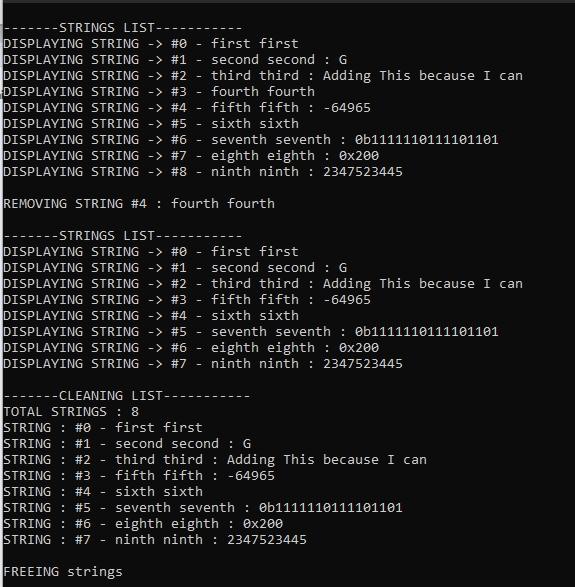
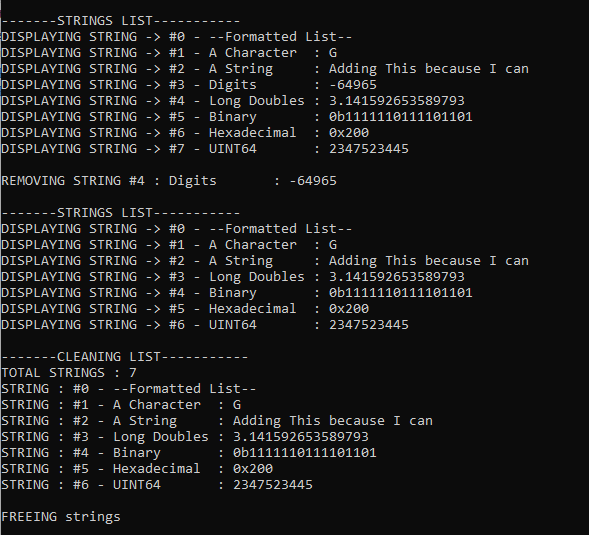
Added Long Floats (A.K.A. Long Doubles ???)

Changed region(s): [[0.0, 0.0, 1.0, 1.0], [0.3548, 0.4187, 0.9165, 0.628], [0.5026, 0.329, 0.5617, 0.3589]]

diff --git a/stringmanager.c b/stringmanager.c
@@ -17,6 +17,26 @@ unsigned int that_getTotalStrings()
 {
     return stringsIndex;
 }
+#include <stdio.h>
+#include <stdlib.h>
+#include <stdint.h>
+
+void printDoubles(double doubleNum, int numLength)
+{
+    int floatLength = (size_t)snprintf(NULL, 0, "%.15lf", doubleNum) + 1;
+    char *str = NULL;
+    str = malloc(floatLength);
+    snprintf(str, floatLength, "%.15lf", doubleNum);
+    int t = numLength + floatLength;
+    charStr = realloc(charStr, sizeof(char) * t);
+    int b = 0;
+    for(; j < t; j++, b++)
+    {
+        charStr[j] = str[b];
+    }
+    free(str);
+    j++;
+}
 
 void printUInt64Digits(uint64_t num, uint64_t base, int numLength)
 {
@@ -155,7 +175,13 @@ void that_addString(const char* txt, ...)
 						i+=2;
                         uint64_t num = va_arg(args, uint64_t);
 						printUInt64Digits(num, 10, len);
-					}
+					} else if(txt[i+1] == 'f')
+                    {
+                        i++;
+                        double number = va_arg(args, double);
+                        printDoubles(number, len);
+                        break;
+                    }
 					break;
 				}
 

diff --git a/main.c b/main.c
@@ -3,23 +3,21 @@
 
 int main()
 {
-    that_addString("first first");
+    that_addString("--Formatted List--");
 
-    that_addString("second second : %c", "G");
+    that_addString("A Character  : %c", "G");
 
-    that_addString("third third : %s", "Adding This because I can");
+    that_addString("A String     : %s", "Adding This because I can");
 
-    that_addString("fourth fourth");
+    that_addString("Digits       : %d", -64965);
 
-    that_addString("fifth fifth : %d", -64965);
+    that_addString("Long Doubles : %lf", 3.141592653589793); // Only works up to 15 Digits
 
-    that_addString("sixth sixth");
+    that_addString("Binary       : 0b%b", 65005);
 
-    that_addString("seventh seventh : 0b%b", 65005);
+    that_addString("Hexadecimal  : 0x%x", 512);
 
-    that_addString("eighth eighth : 0x%x", 512);
-
-    that_addString("ninth ninth : %llu", 2347523445);
+    that_addString("UINT64       : %llu", 2347523445); // Unsigned Long Long Int
 
     that_printAllStrings();
 

diff --git a/README.md b/README.md
@@ -1,12 +1,12 @@
 # Dynamic Strings Array  
   
-  
 I needed a way to add or delete a string from an array of strings for an up coming project. You can delete the string from any part of the array. It works great, but has one major flaw, it can only handle 1 array of strings. Eventually, I want to set it up for multiple arrays, but for now this works for my needs.  
   
-Variadic Functions are now working --> C, S, D, B, X, LLU --> See picture below to see it in action.  
+Variadic Functions are now working --> C, S, D, B, X, LLU, LF --> See picture below to see these in action.  
+
+NOTE : Long Floats are only accurate up to 15 Digits of precision. Example : 3.141592653589793 works. However if you change it to something like 53.141592653589793 then the 3 at the end is unstable and could result in a different number based on your Operating System and / or compiler.  
   
 # ** TODO **  
-	* Add Floats to the Variadic Functions   
 	* Allow Multiple String Arrays  
     
 	
